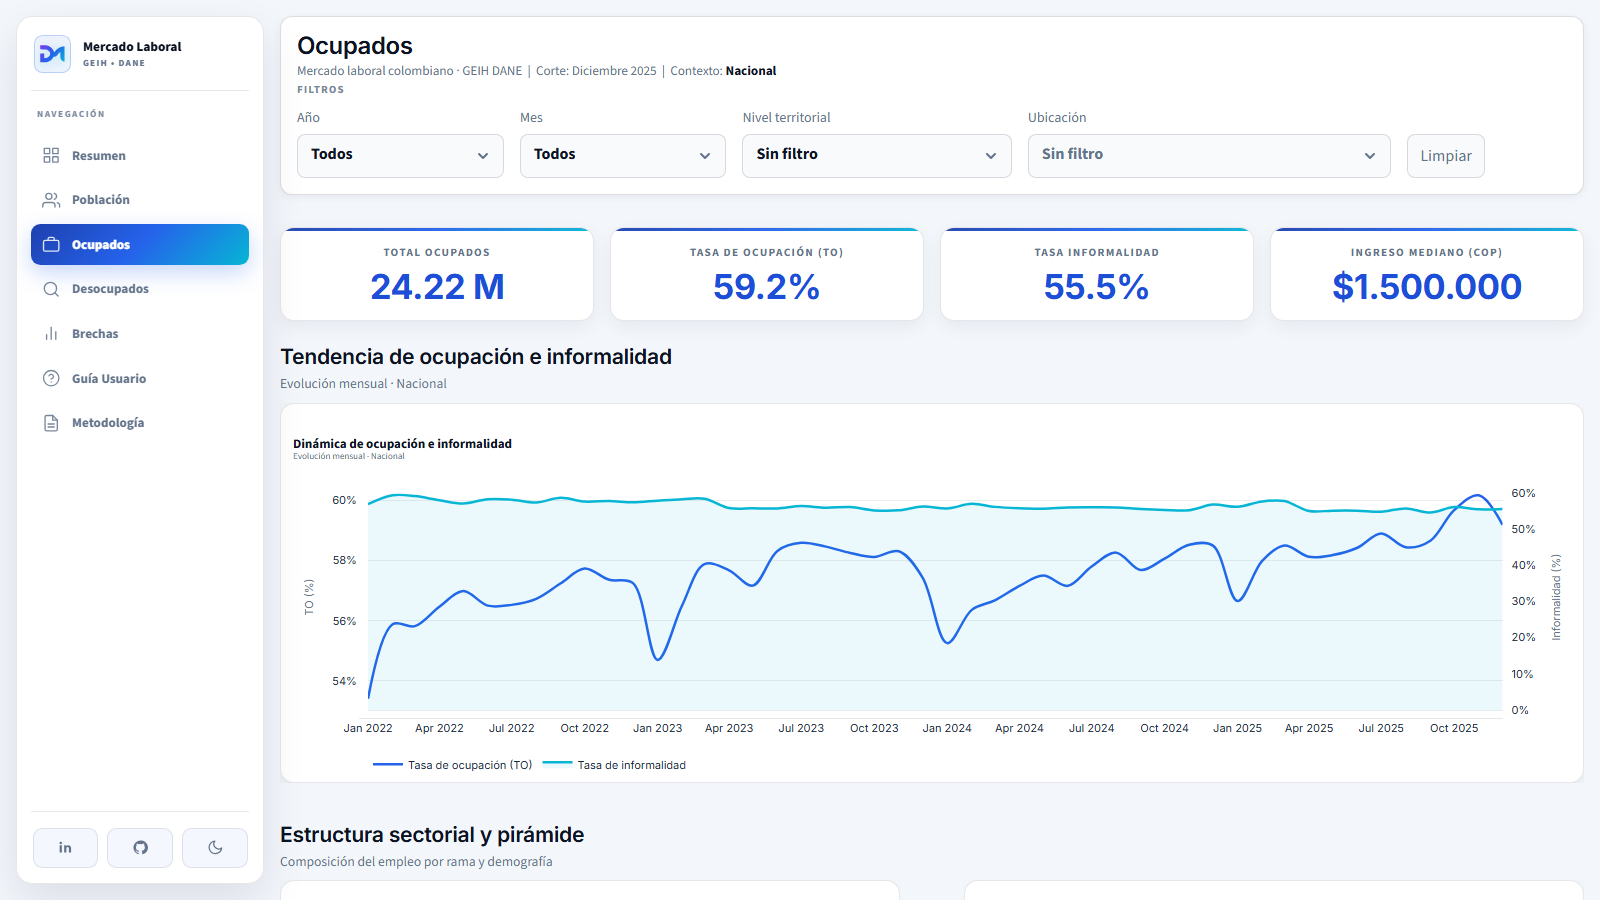
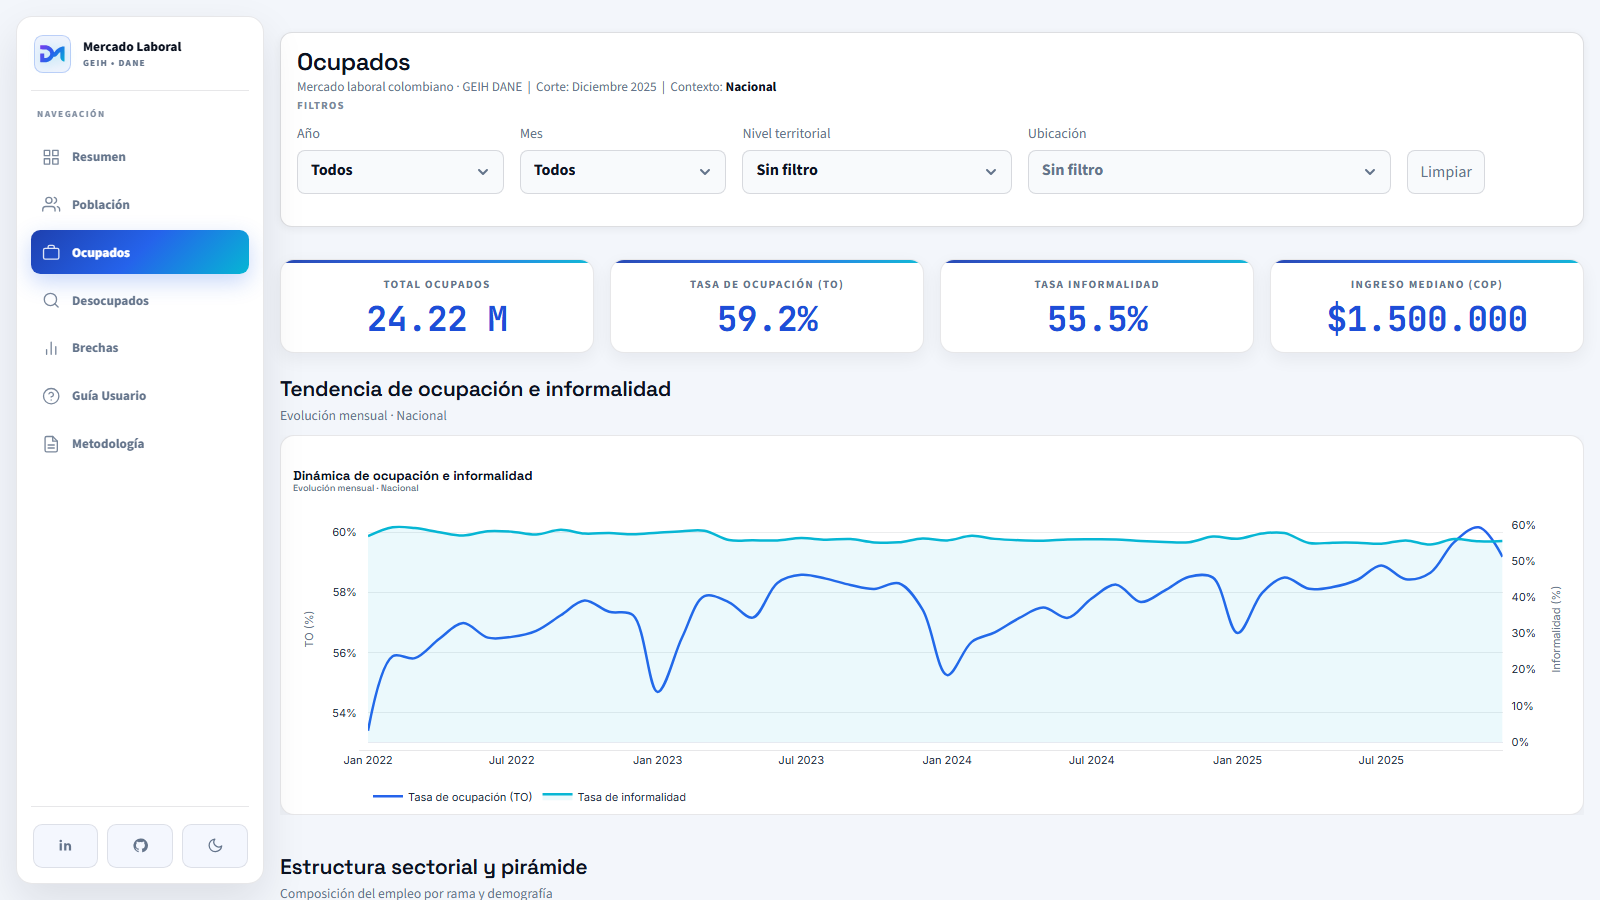
docs: documentacion final — spec al dia (DT-021→026), README con movil y sistema DM, capturas finales
spec.md: estado COMPLETO y en produccion, hitos de la fase de producto, pendientes reclasificados a iteracion 2. README: tipografia del sistema, experiencia movil, estructura con dm_tokens y flujo de actualizacion de identidad. Capturas regeneradas con el diseño final.

diff --git a/spec.md b/spec.md
@@ -242,6 +242,11 @@ Ver `docs/decisiones_tecnicas.md`. Resumen:
 - **DT-013** Refuerzo de contraste CSS para selectores en modo claro.
 - **DT-019** Rediseño visual con identidad de marca "Premium Dark Tech" (paleta de `personal_landing/colores_paleta.md` y `shiny-app/www/brand.css`): gradiente azul→cian, superficies oscuras `#0A0E1A`/`#0F1729`, tipografía Inter, KPIs en cian, rampa de gráficos de marca y tintas por tema para documentos. Detalle completo en `docs/decisiones_tecnicas.md`.
 - **DT-020** Layout global con cuadrícula de 8px: gutter uniforme de 1rem, mismo eje de inicio en las 7 vistas (verificado programáticamente en [280,16]), wrappers de elementos fijos fuera del flujo flex, documentos alineados a la izquierda. Detalle en `docs/decisiones_tecnicas.md`.
+- **DT-021** Mobile-first: tipografía fluida (`clamp()`), KPIs 2×2, clases `.dm-grid` en vez de selectores `[style*=...]`, WCAG 2.2 AA (touch ≥44px, aria-labels, focus-visible, reduced-motion).
+- **DT-022** Filtros en *bottom sheet* con FAB en móvil (información antes que controles); toggle por clase en `<html>` con listener delegado que sobrevive a los reruns de Streamlit.
+- **DT-023/024** Drawer de navegación con hamburguesa (mismo patrón del Observatorio GEIH) como navegación móvil única; tab bar inferior eliminada.
+- **DT-025** Tipografía del sistema DM: Space Grotesk (títulos), Inter (cuerpo), JetBrains Mono `tabular-nums` (KPIs, tablas, códigos).
+- **DT-026** Tokens consumidos desde `src/dm_tokens.py` (copia de `dm-design-system/dist/tokens.py`); `fig_base` parte de `dm.plotly_layout()`; fin del hardcodeo de identidad.
 
 ---
 
@@ -258,7 +263,19 @@ NO incluir en esta versiÃ³n:
 
 ## 13. Estado actual del proyecto
 
-**Ãšltima revisiÃ³n documental:** 2026-04-25.
+**Última revisión documental:** 2026-08-03. **Estado: COMPLETO y en producción** —
+demo público en https://dashboard-mercado-laboral-co.streamlit.app/ desplegado
+desde `master`, con lanzamiento empacado (carrusel PDF + kit de post en
+`02_Marca_Personal_DM/carruseles/dashboard-mercado-laboral/`).
+
+### Hitos de la fase de producto (2026-08-02/03 — detalle en docs/decisiones_tecnicas.md)
+- ✅ **Identidad de marca DM** (DT-019/020): paleta Premium Dark Tech, logo, layout global 8px.
+- ✅ **Datos validados** contra la serie oficial DANE: TD coincide en 48/48 meses (máx 0.05 p.p., `src/validate.py` corregido y extendido a 2025).
+- ✅ **Ingreso en COP** (`fmt_cop`), corte en español, bloqueo de auto-traducción de Chrome.
+- ✅ **Experiencia móvil nativa** (DT-021→024): drawer con hamburguesa, bottom sheet de filtros con FAB, KPIs 2×2, tipografía fluida, WCAG 2.2 AA; tab bar eliminada.
+- ✅ **Sistema de diseño formal adoptado** (DT-025/026): Space Grotesk + Inter + JetBrains Mono; tokens consumidos desde `src/dm_tokens.py` (copia de `dm-design-system/dist/tokens.py`) y `fig_base` sobre `dm.plotly_layout()`.
+- ✅ **Deploy en Streamlit Community Cloud** verificado en escritorio y móvil.
+- ✅ **Post de LinkedIn + carrusel editorial** (10 págs, alineado al sistema) listos para publicar.
 
 ### Ya construido
 - `spec.MD`
@@ -290,14 +307,15 @@ NO incluir en esta versiÃ³n:
 - Vistas identificadas por clave corta: `resumen`, `poblacion`, `ocupados`, `desocupados`, `brechas`, `instrucciones`, `metodologia`.
 - Toggle de tema: `?theme=Dark|Light` en query param, leÃdo al inicio del script.
 - Ãconos: SVG inline estilo Feather/Lucide (16-20 px, stroke 1.8).
-- Paleta (marca "Premium Dark Tech", DT-019): gradiente `#1E40AF -> #2563EB -> #06B6D4`, accent `#2563EB`, accent_2 `#06B6D4`, accent_3 `#F59E0B`, positive `#10B981`, negative `#F43F5E`. Canvas oscuro `#0A0E1A`, superficies `#0F1729`/`#131C31`/`#18233C`. Tipografia `Inter`.
+- Paleta (marca "Premium Dark Tech", DT-019): gradiente `#1E40AF -> #2563EB -> #06B6D4`, accent `#2563EB`, accent_2 `#06B6D4`, accent_3 `#F59E0B`, positive `#10B981`, negative `#F43F5E`. Canvas oscuro `#0A0E1A`, superficies `#0F1729`/`#131C31`/`#18233C`.
+- Tipografía (DT-025): títulos `Space Grotesk`, cuerpo `Inter`, cifras `JetBrains Mono` con `tabular-nums`.
+- Fuente de tokens (DT-026): `src/dm_tokens.py` — copia de `dm-design-system/dist/tokens.py`; nunca editar valores a mano en este repo.
 
-### Pendiente por construir (prioridad en este orden)
-1. **`notebooks/03_validar_indicadores.ipynb`** â€” comparaciÃ³n con cifras oficiales DANE.
-2. **Tiempo promedio de bÃºsqueda (`P6240`)** â€” ya se carga la variable, falta agregar mÃ©trica al parquet y UI.
-3. **Granularidad trimestral/anual** â€” definir regla y exponer controles si se mantiene en alcance.
-4. **Deploy en Streamlit Community Cloud.**
-5. **Post de lanzamiento en LinkedIn** con narrativa y capturas.
+### Pendiente (iteración 2 — no bloquea el producto)
+1. **`notebooks/03_validar_indicadores.ipynb`** — versión notebook de la validación (la validación en sí ya vive en `src/validate.py`, 48/48).
+2. **Tiempo promedio de búsqueda (`P6240`)** — ya se carga la variable, falta agregar métrica al parquet y UI.
+3. **Granularidad trimestral/anual** — definir regla y exponer controles si se mantiene en alcance.
+4. **Deflactar ingresos por IPC** (ver sección 12).
 
 ---
 

diff --git a/README.md b/README.md
@@ -72,7 +72,8 @@
 - **Resaltado geográfico:** al seleccionar un departamento o ciudad se resalta en el mapa con borde naranja sin ocultar el resto del territorio.
 - **Mapas independientes:** el mapa de ciudades siempre muestra todas las áreas metropolitanas independientemente del filtro de departamento activo.
 - **KPI cards compactas:** título y valor centrados, sin texto de delta ni pie de página.
-- **Tema dual** oscuro / claro con la identidad de marca *Premium Dark Tech* (paleta azul `#1E40AF` → `#2563EB` → cian `#06B6D4` sobre superficies `#0A0E1A`/`#0F1729`), CSS personalizado y tipografía `Inter`.
+- **Tema dual** oscuro / claro con la identidad de marca *Premium Dark Tech*: paleta azul `#1E40AF` → `#2563EB` → cian `#06B6D4`, títulos en `Space Grotesk`, cuerpo en `Inter` y cifras en `JetBrains Mono` con `tabular-nums`. Los tokens se consumen del sistema de diseño DM (`src/dm_tokens.py`).
+- **Experiencia móvil nativa:** drawer de navegación con hamburguesa, filtros en *bottom sheet* accionado por FAB, KPIs en cuadrícula 2×2, tipografía fluida (`clamp()`), objetivos táctiles ≥ 44px y accesibilidad WCAG 2.2 AA (focus visible, `aria-label`, `prefers-reduced-motion`, *safe areas*).
 - **Métricas avanzadas:** TD, TO, TGP, informalidad, ingreso laboral mediano, FFT por periodo, departamento y ciudad.
 
 ---
@@ -96,7 +97,7 @@
 | Gráficos | Plotly (Scatter/Choropleth Mapbox, subplots) |
 | ETL | Polars + pandas + pyarrow |
 | Persistencia | Parquet (`indicadores_mensuales.parquet`) |
-| Estilos | CSS dinámico (Dark/Light mode) · identidad de marca compartida con [la landing personal](https://github.com/dmetrics1) |
+| Estilos | CSS dinámico (Dark/Light) · tokens del sistema de diseño DM (`src/dm_tokens.py`, generado desde `dm-design-system`) |
 | Tests | pytest — 25 tests unitarios (indicadores + diccionario) |
 | Deploy | Streamlit Community Cloud |
 
@@ -169,25 +170,34 @@ pytest tests/ -v
 ```
 dashboard_mercado_laboral_co/
 ├── app/
-│   └── main.py                  # Dashboard Streamlit
+│   ├── main.py                  # Dashboard Streamlit (7 vistas, temas, móvil)
+│   └── assets/
+│       └── logo-dm.svg          # Monograma de marca (gradiente)
 ├── src/
 │   ├── config.py                # Rutas, grupos de edad, mapeos DIVIPOLA
+│   ├── dm_tokens.py             # Tokens del sistema de diseño DM (copia de dist/tokens.py)
 │   ├── etl.py                   # Pipeline principal (24 dimensiones)
 │   ├── indicators.py            # TD, TO, TGP, informalidad, ingreso mediano ponderado
 │   ├── loaders.py               # Carga multi-formato (CSV, Parquet, SAV)
 │   ├── dictionary.py            # Procesamiento diccionario GEIH
-│   └── validate.py              # Validación vs. cifras oficiales DANE
+│   └── validate.py              # Validación vs. cifras oficiales DANE (48/48 meses)
 ├── data/
 │   ├── reference/               # GeoJSON departamental
 │   └── processed/               # Parquet de salida y productos del diccionario
 ├── docs/
 │   ├── especificaciones.md      # Matriz de variables por vista
-│   └── decisiones_tecnicas.md
+│   ├── decisiones_tecnicas.md   # Log DT-001 → DT-026
+│   └── screenshots/             # Capturas del README (cómo regenerarlas: su README)
 ├── notebooks/                   # Exploración y validación
 ├── tests/                       # pytest — 25 tests unitarios
 ├── requirements.txt             # Runtime (Streamlit Community Cloud)
 └── requirements-dev.txt         # ETL + linters + tests (solo local)
 ```
+
+> **Identidad visual:** los colores, tipografías y layout provienen del sistema de
+> diseño DM (`dm-design-system`). Para cambiar la identidad se edita
+> `tokens/tokens.json` en ese repo, se regenera con `build/build.py` y se copia
+> `dist/tokens.py` aquí como `src/dm_tokens.py` — nunca editar valores a mano.
 
 ---
 
